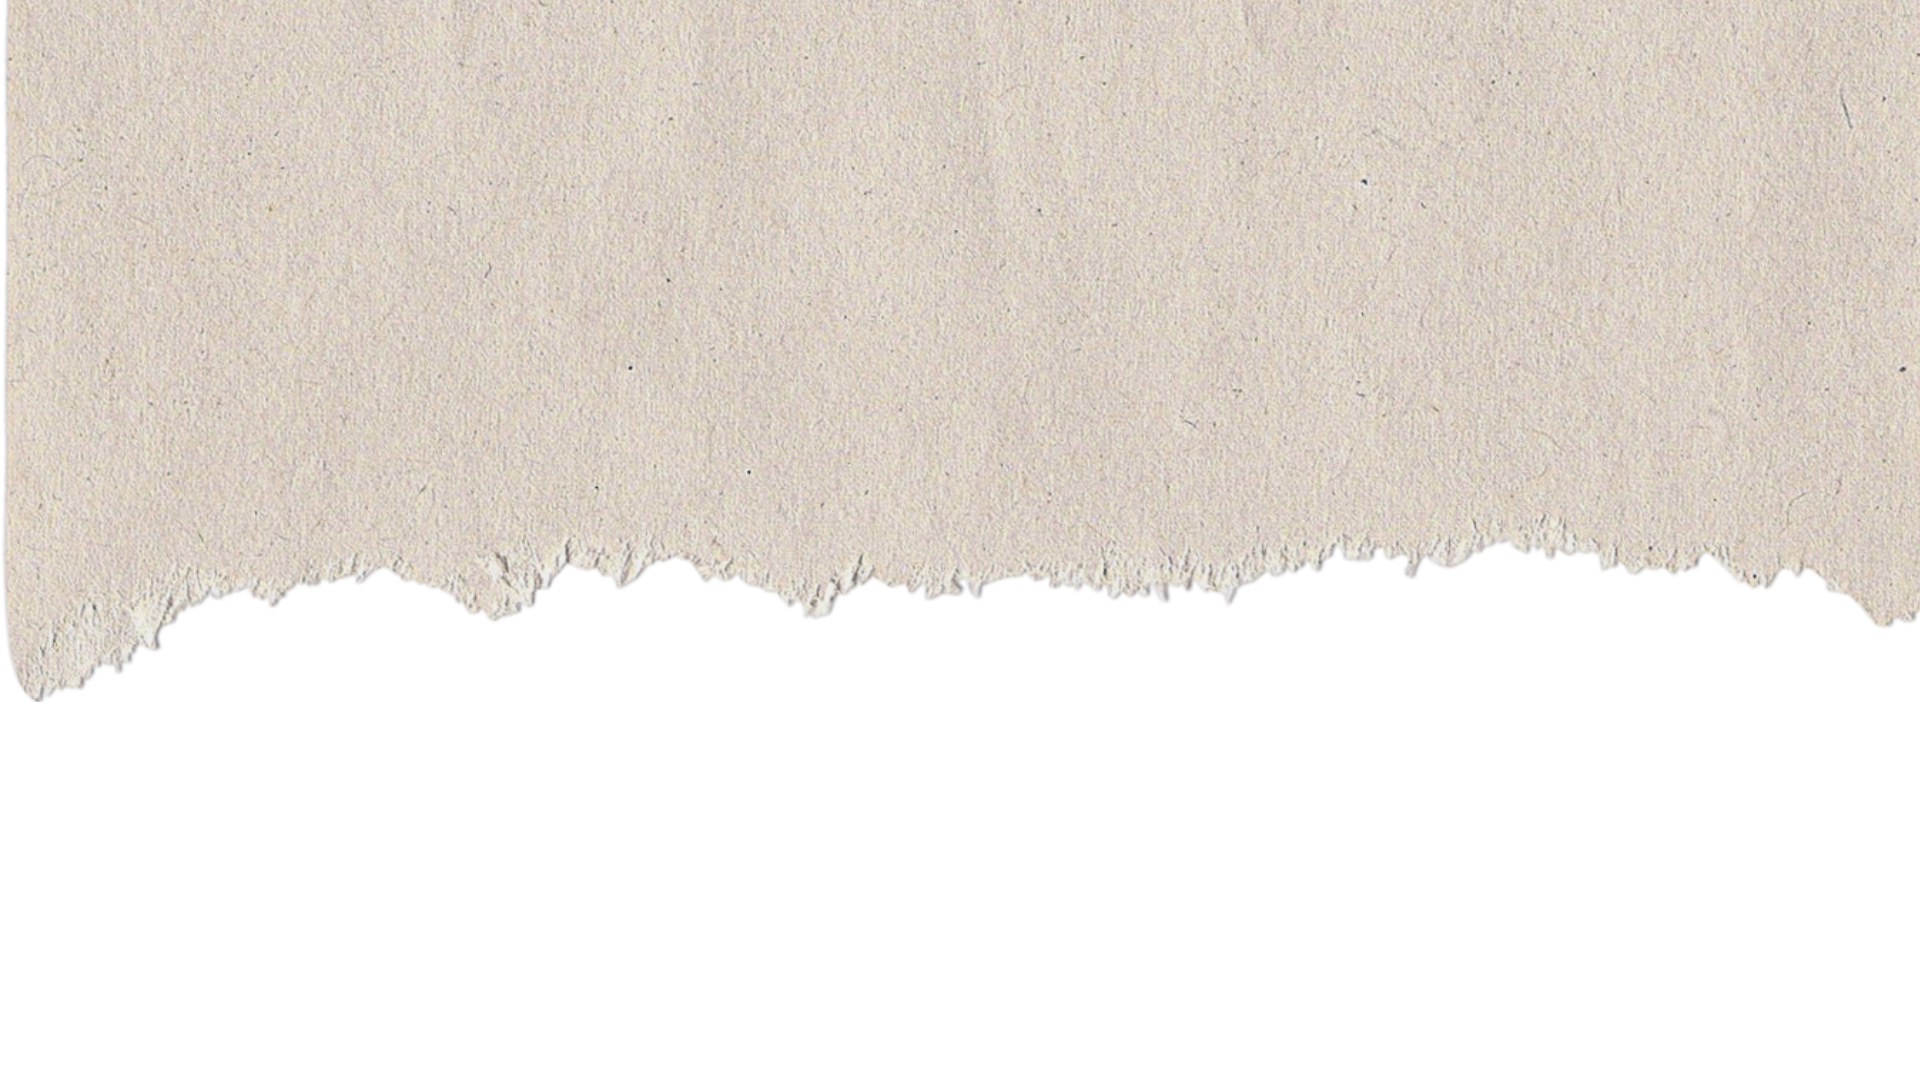
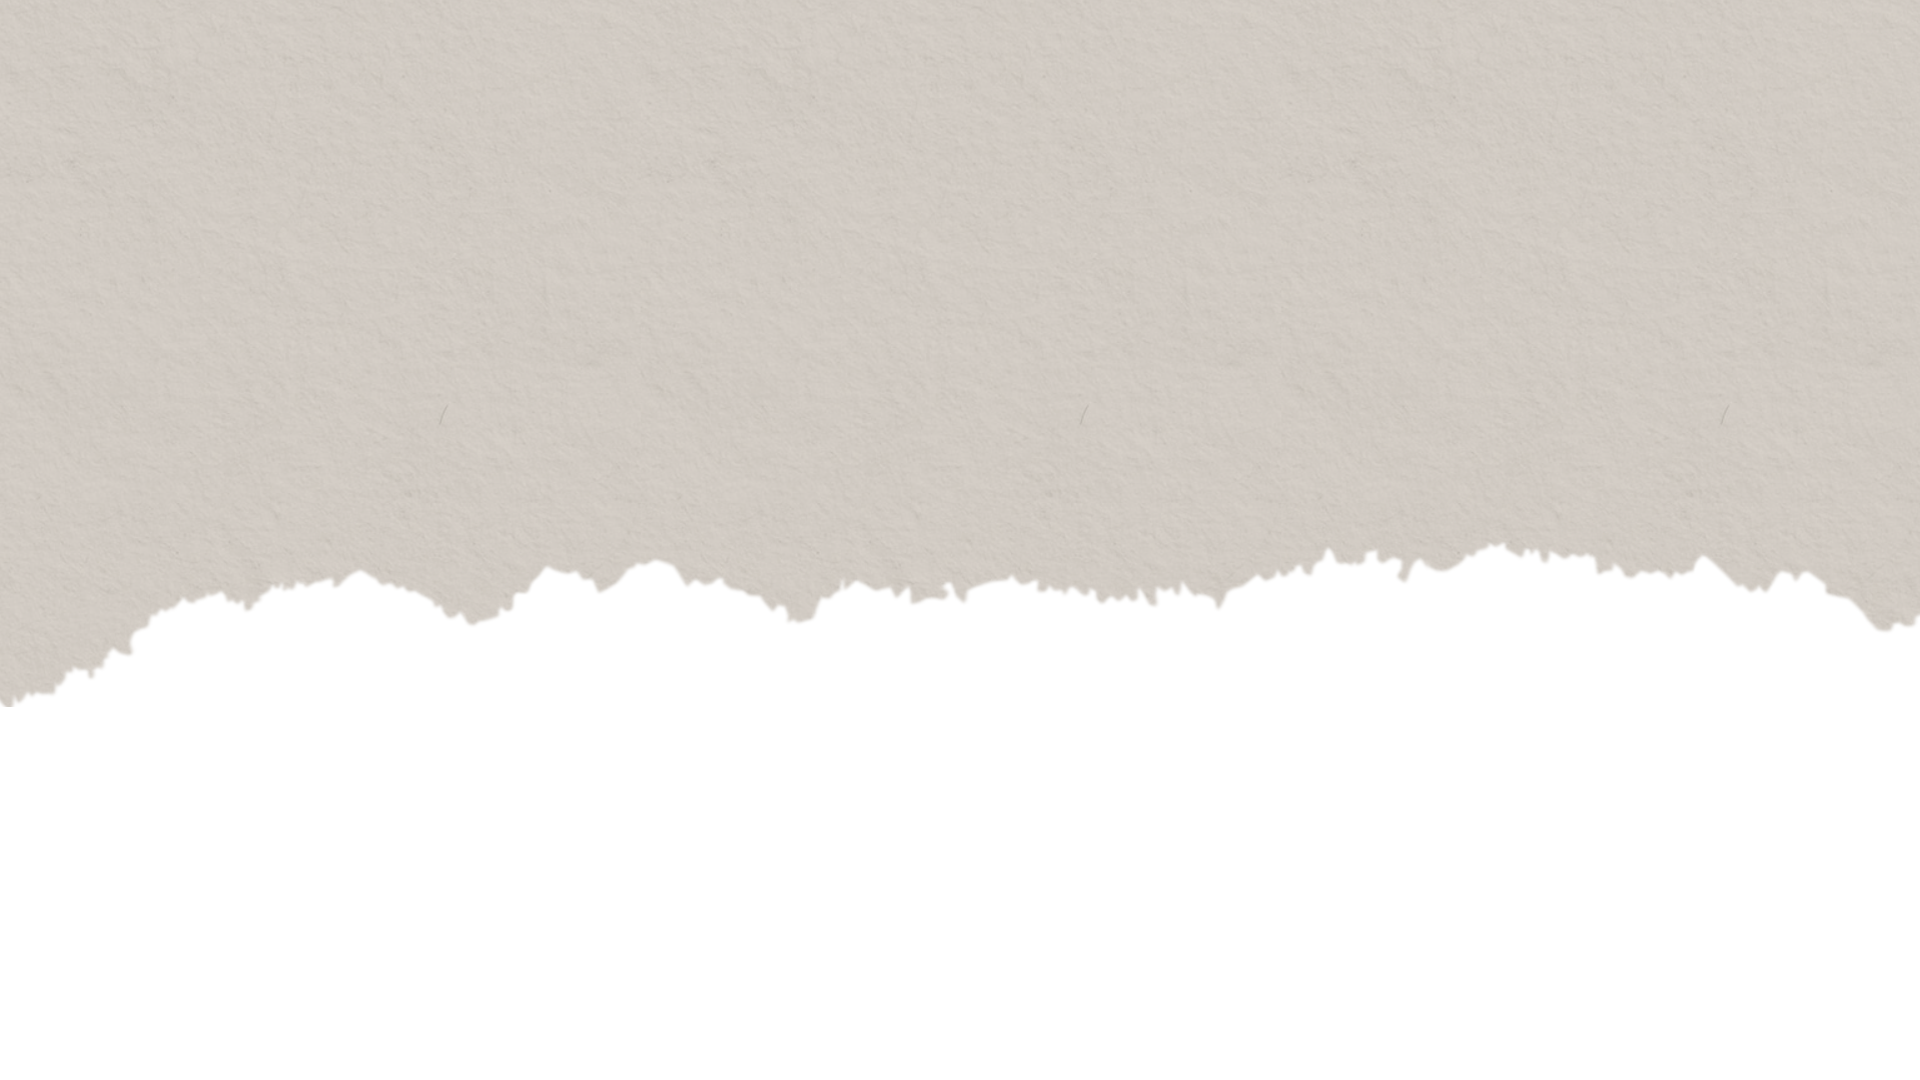
merge changes, leaderboard

Changed region(s): [[0.0, 0.0, 0.8438, 0.6722], [0.8438, 0.4889, 0.9688, 0.55], [0.9688, 0.55, 1.0, 0.5806]]

diff --git a/src/components/Games/Leaderboard.vue b/src/components/Games/Leaderboard.vue
@@ -1,0 +1,120 @@
+<style scoped>
+*{
+    font-family: 'Times New Roman', Times, serif
+}
+h1{
+    font-family: Canopee;
+    font-size: 4em;
+    text-align: center;
+}
+th{
+    font-size: 3.5em;
+}
+th,td{
+    border: 1px solid #1d1d1b;
+    text-transform: uppercase;
+    text-align: center;
+    padding: 10px;
+    font-size: 2.5em;
+}
+
+</style>
+<template>
+    <Header/>
+    
+    <div class="w-1/2 mx-auto flex items-center flex-col">
+        <h1 class="mb-12">Leaderboard</h1>
+        <table>
+            <thead>
+                <th>Team</th>
+                <th>Points</th>
+            </thead>
+            <tbody>
+                
+                <tr v-for="(team, index) in sortedTeams" :key="index">
+                    <td><h3>{{ team.team_name }}</h3></td>
+                    <td>{{ team.totalPoints }}</td>
+                </tr>
+                
+            </tbody>
+        </table>
+    </div>
+</template>
+
+<script>
+import { ref,computed } from 'vue';
+import { collection, query, getDocs, orderBy, onSnapshot,getFirestore,doc } from 'firebase/firestore';
+
+// Import the functions you need from the SDKs you need
+import { initializeApp } from "firebase/app";
+import { getAnalytics } from "firebase/analytics";
+import Header from '../Navigation/Header.vue';
+// TODO: Add SDKs for Firebase products that you want to use
+// https://firebase.google.com/docs/web/setup#available-libraries
+
+// Your web app's Firebase configuration
+// For Firebase JS SDK v7.20.0 and later, measurementId is optional
+const firebaseConfig = {
+    apiKey: "AIzaSyDdVa3kY-11_jpsT_Fw6wBXPq4BBm7M_0g",
+    authDomain: "verite-45774.firebaseapp.com",
+    projectId: "verite-45774",
+    storageBucket: "verite-45774.appspot.com",
+    messagingSenderId: "340822673051",
+    appId: "1:340822673051:web:254f4d49dca48aef7ce83e",
+    measurementId: "G-K8G599E418"
+};
+
+// Initialize Firebase
+const app = initializeApp(firebaseConfig);
+const analytics = getAnalytics(app);
+export default {
+    setup() {
+        const teams = ref([]);
+        const db = getFirestore(app);
+        const fetchTeams = async () => {
+            const gameRef = doc(db, 'games', 'game 1');
+            const teamsCollectionRef = collection(gameRef, 'teams');
+            const [teamSnapshot, gamesSnapshot] = await Promise.all([getDocs(teamsCollectionRef), getDocs(collection(db, 'games'))]);
+
+            const teamsData = [];
+            const gamesData = {};
+
+            await Promise.all(gamesSnapshot.docs.map(async (gameDoc) => {
+                const gameId = gameDoc.id;
+                const teamsCollectionRef = collection(doc(db, 'games', gameId), 'teams');
+                const querySnapshot = await getDocs(teamsCollectionRef);
+                gamesData[gameId] = { ...gameDoc.data(), scores: querySnapshot.docs.map(doc => ({ [doc.id]: { team_name: doc.data().team_name, points: doc.data().points } })) };
+            }));
+
+            teamSnapshot.forEach((doc) => {
+                const teamData = doc.data();
+                let totalPoints = 0;
+
+                for (const gameId in gamesData) {
+                    const game = gamesData[gameId];
+                    const teamScore = game.scores.find(score => score[doc.id]);
+                    if (teamScore) {
+                        totalPoints += teamScore[doc.id].points;
+                    }
+                }
+                teamData.totalPoints = totalPoints;
+                teamsData.push(teamData);
+            });
+
+            teams.value = teamsData;
+        };
+
+
+
+
+        fetchTeams();
+
+        const sortedTeams = computed(() => {
+            return teams.value.sort((a, b) => b.totalPoints - a.totalPoints);
+        });
+        return { sortedTeams,teams };
+    },
+    components: { Header }
+};
+</script>
+

diff --git a/src/main.js b/src/main.js
@@ -11,6 +11,7 @@ import Teams from "./components/Teams/Teams.vue";
 import Team from "./components/Teams/Team.vue";
 import GamesEdit from "./components/admin/GamesEdit.vue";
 import Login from "./components/admin/Login.vue";
+import Leaderboard from "./components/Games/Leaderboard.vue";
 import { getAuth } from 'firebase/auth';
 import { setPersistence, browserSessionPersistence } from 'firebase/auth';
 // Set up persistence
@@ -50,7 +51,7 @@ const routes = [
     {
         path:'/leaderboard',
         name:'Test',
-        component: Test,
+        component: Leaderboard,
     },
     {
         path: '/games/vertle',

diff --git a/src/components/Games/Content.vue b/src/components/Games/Content.vue
@@ -38,6 +38,10 @@
 
 <template>
     <Header/>
+    <div class="paper-bg"></div>
+    <div class="banner-img h-screen">
+        <img src="../../assets/img/shaktiman.png" alt="" srcset="">
+    </div>
     <div class="tagline">
         <div class="tag">
             <a href="/games/vertle">

diff --git a/src/components/admin/Login.vue b/src/components/admin/Login.vue
@@ -40,6 +40,7 @@ label {
 </style>
 <template>
     <Header/>
+    <div class="paper-bg"></div>
     <div class="w-1/2 mx-auto my-10 border-[#1d1d1b] border-[1px] border-solid p-10 sm:w-[80%]">
         <h1>Login</h1>
         <div class="flex flex-col">

diff --git a/src/assets/css/index.scss b/src/assets/css/index.scss
@@ -342,6 +342,7 @@ font-family: Canopee;
 }
 .black-bg{
     position: relative;
+    overflow-x: hidden;
 }
 .banner-retro
 {
